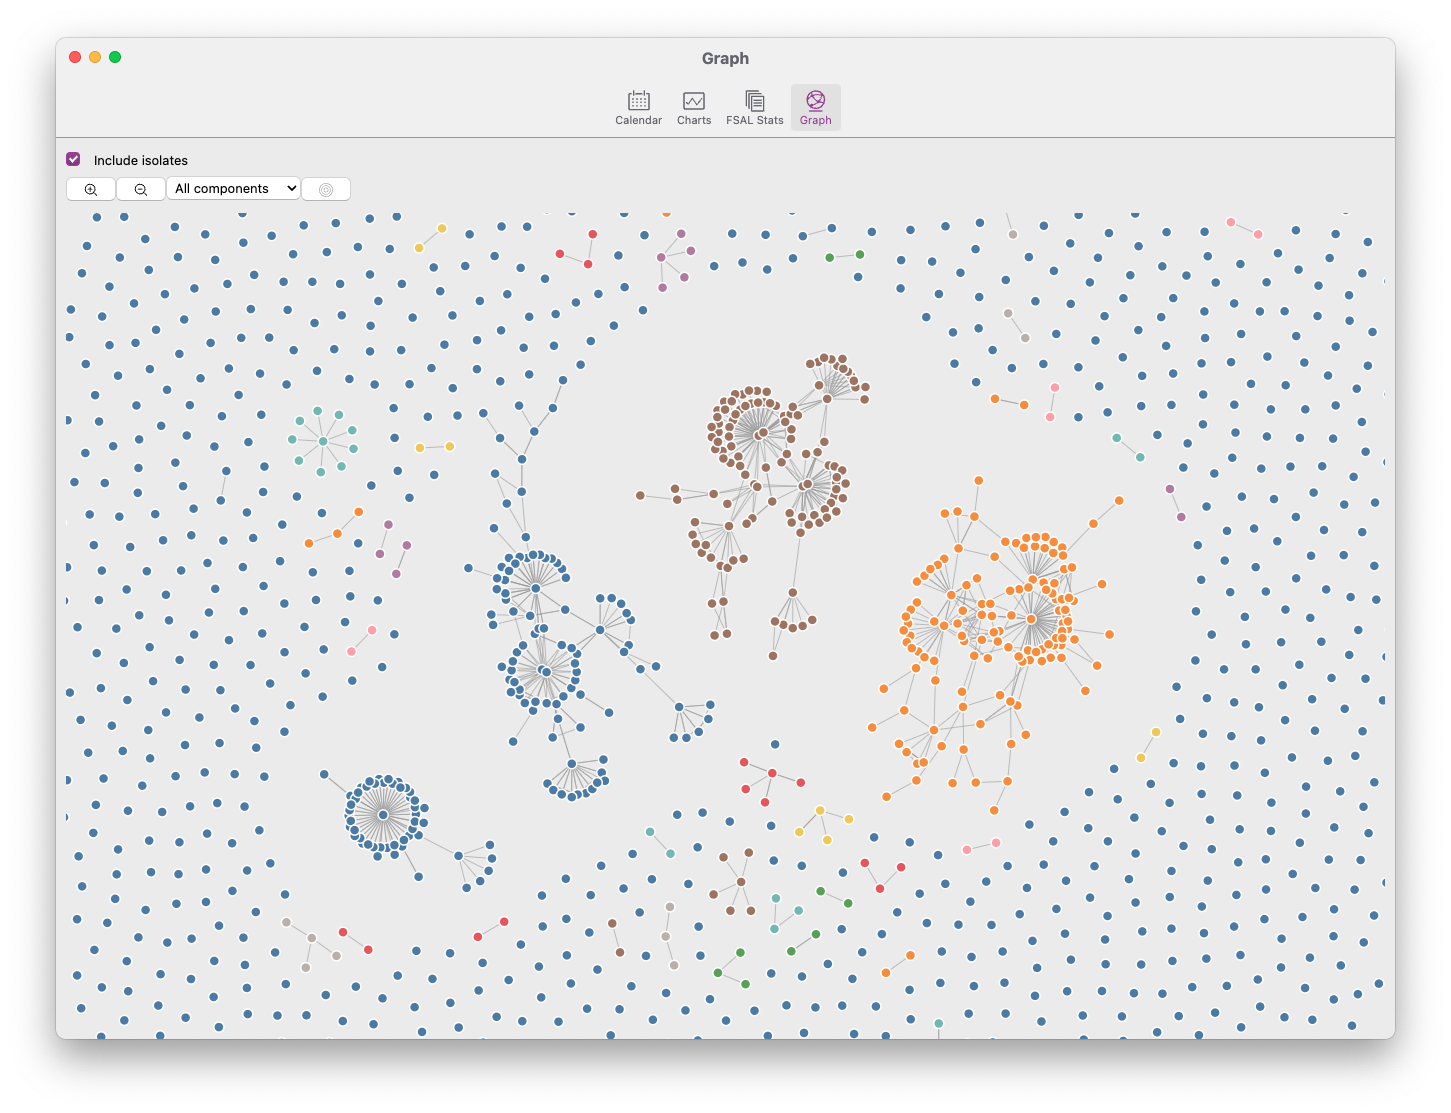
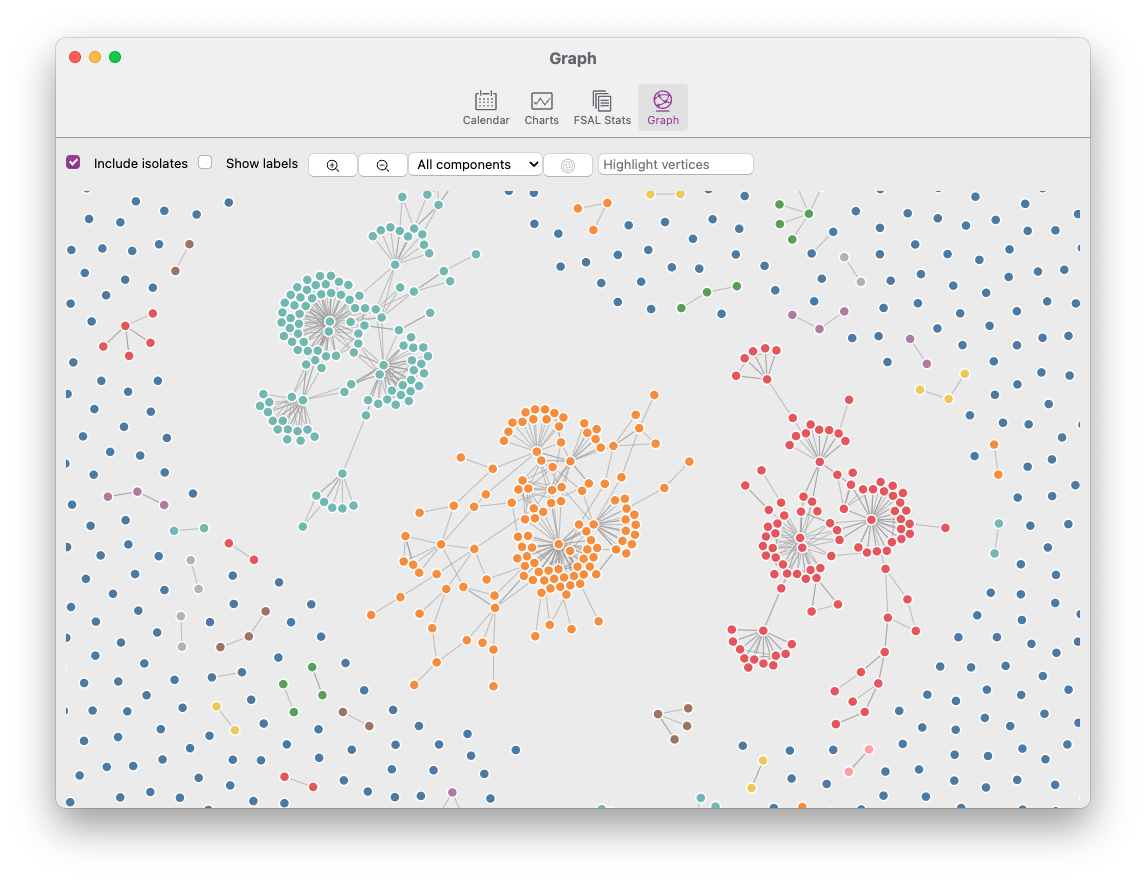
feat: Update graph view docs

diff --git a/docs/en/academic/graph.md b/docs/en/academic/graph.md
@@ -38,12 +38,18 @@ Under the hood, Zettlr uses the library D3 to facilitate the actual rendering of
 
 Interacting with this network is possible in a number of ways. Hovering over a vertex in the network will show you a tooltip that tells you its filename and which component it belongs to. Click on a node to have it open in your main editor. This way you can keep the graph view open to the side of the main window and navigate your files this way.
 
-Additionally, there are a few controls you have available to customize the display of the graph. The checkbox determines if **isolates** are displayed. Especially if you are interested in specific clusters of nodes (components), if might be wise to exclude these isolates, since it makes the visualization much cleaner and easier to interpret.
+Additionally, there are a few controls you have available to customize the display of the graph.
 
-The two zoom buttons below that allow you to zoom in and out of the graph to gain a bird's eye perspective of your network, or to focus on a specific part of the network.
+The first checkbox determines if **isolates** are displayed. Especially if you are interested in specific clusters of nodes (components), if might be wise to exclude these isolates, since it makes the visualization much cleaner.
+
+The second checkbox allows you to permanently display the labels next to the vertices. However, especially in dense networks, this can be chaotic, hence it is off by default.
+
+The two zoom buttons allow you to zoom in and out of the graph to gain a bird's eye perspective of your network, or to focus on a specific part of the network.
 
 ![Zettlr's graph view, focused on a single component of the network](../assets/../img/graph_view_single_component.png)
 
-As you link more and more files back and forth, it might make sense to only look at one specific component that has formed. The dropdown menu next to the zoom buttons allows you to filter for specific components. The number of the component itself is not meaningful (when the network is being built, the underlying community-detection algorithm just assigns an incrementing number to each new component it detects), but the list is sorted by the **size** of the component. The biggest components will be at the top of the dropdown, whereas the smallest components (i.e. the dyads) are at the end.
+As you link more and more files back and forth, it might make sense to only look at one specific component that has formed. The dropdown menu next to the zoom buttons allows you to filter for specific components. The number of the component itself is not meaningful (the underlying community-detection algorithm just lists the components in the order of detection), but the list is sorted by the **size** of the component. The biggest components will be at the top of the dropdown, whereas the smallest components (i.e. the dyads) are at the end.
 
-Lastly, you will notice a "target" button. This button resets the view on the graph back to the origin, in case you have scrolled away from the origin.
+After the dropdown, you will notice a "target" button. This button recenters the view on the graph back to the origin.
+
+The last element is a text field that allows you to filter the vertex. The text you type here will be matched against the absolute paths of the individual files, with those not matching being dimmed, and those matching being highlighted. Additionally, the graph will automatically move the viewport to the center coordinates of the matched elements.
